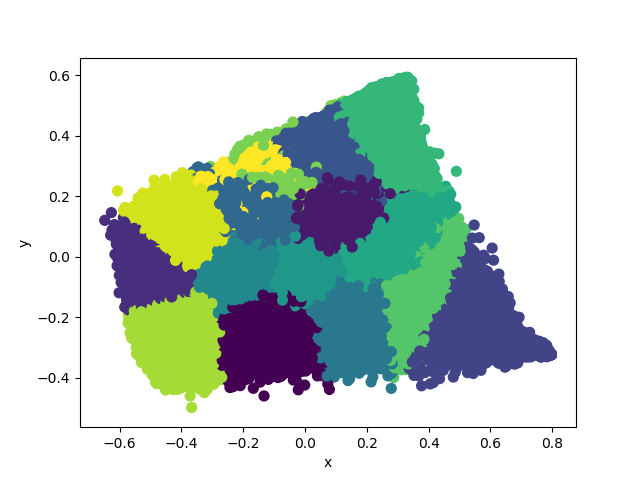
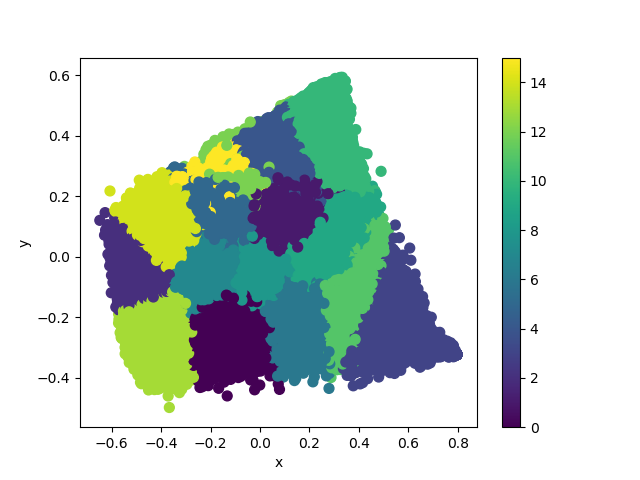
visualize clusters

diff --git a/lab5/clustering.py b/lab5/clustering.py
@@ -4,7 +4,7 @@ import numpy as np
 from skimage import io, img_as_float, img_as_int
 from sklearn.cluster import KMeans
 from sklearn.decomposition import PCA
-from sklearn.manifold import TSNE
+from sklearn.metrics import silhouette_score
 import argparse
 
 import matplotlib.pyplot as plt
@@ -35,7 +35,7 @@ def visualize_image(image):
 def plot_cluster(X, centers, labels, k, image_name):
     fig = plt.figure()
     ax = fig.add_subplot(111)
-    pca = TSNE(n_components=2)
+    pca = PCA(n_components=2)
     X_r =pca.fit_transform(X)
     x = X_r[:,0:1].flatten()
     y = X_r[:, 1:2].flatten()
@@ -43,7 +43,7 @@ def plot_cluster(X, centers, labels, k, image_name):
     scatter = ax.scatter(x, y, c=labels, s=50)
     ax.set_xlabel('x')
     ax.set_ylabel('y')
-
+    plt.colorbar(scatter)
     plt.savefig('out/viz_{}_{}'.format(k, image_name))
 
 def clustering(image, num_clusters, image_name):
@@ -56,9 +56,10 @@ def clustering(image, num_clusters, image_name):
     new_image = centers[predict]
     new_image = new_image.reshape(image_shape)
 
-    print("Number of elements for cluster", np.bincount(predict))
+    sihlhouette = silhouette_score(image_as_points, predict)
+    print("clustering with {} clusters and silhouette {}".format(k, sihlhouette))
     
-    plot_cluster(image_as_points, centers, predict, k, image_name)
+    #plot_cluster(image_as_points, centers, predict, k, image_name)
     return new_image
 
 
